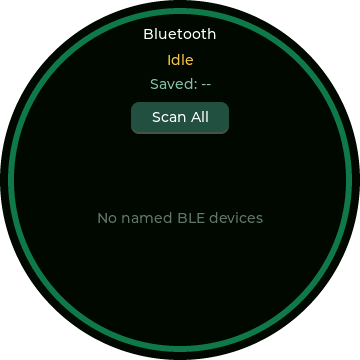
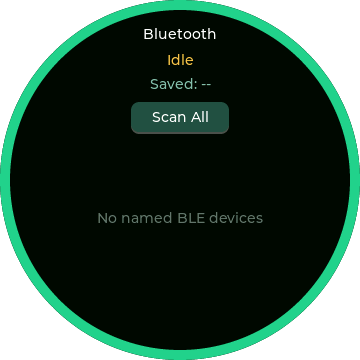
Match Bluetooth ring with GPS UART

Changed region(s): [[0.0, 0.0, 1.0, 1.0]]

diff --git a/components/esp32s3_obd/screens/ui_ScreenPageBluetooth.c b/components/esp32s3_obd/screens/ui_ScreenPageBluetooth.c
@@ -149,14 +149,7 @@ void ui_ScreenPageBluetooth_screen_init(void)
     lv_obj_set_style_bg_color(ui_ScreenPageBluetooth, lv_color_hex(0x050807), LV_PART_MAIN);
     lv_obj_set_style_bg_opa(ui_ScreenPageBluetooth, 255, LV_PART_MAIN);
 
-    lv_obj_t *ring = lv_obj_create(ui_ScreenPageBluetooth);
-    lv_obj_remove_style_all(ring);
-    lv_obj_set_size(ring, 344, 344);
-    lv_obj_center(ring);
-    lv_obj_set_style_radius(ring, LV_RADIUS_CIRCLE, LV_PART_MAIN);
-    lv_obj_set_style_border_width(ring, 6, LV_PART_MAIN);
-    lv_obj_set_style_border_color(ring, lv_color_hex(0x24D18F), LV_PART_MAIN);
-    lv_obj_set_style_border_opa(ring, 140, LV_PART_MAIN);
+    ui_create_outer_ring(ui_ScreenPageBluetooth, 360, 10, lv_color_hex(0x24D18F));
 
     make_label(ui_ScreenPageBluetooth, "Bluetooth", 0, 26, lv_color_hex(0xFFFFFF));
     s_status_label = make_label(ui_ScreenPageBluetooth, "Scanning", 0, 52, lv_color_hex(0xF2C14E));

diff --git a/README.md b/README.md
@@ -143,7 +143,7 @@ idf.py -p PORT flash monitor
 
 ## UI 截图
 
-更新时间：`2026-06-19 22:14:42 CST`
+更新时间：`2026-06-20 00:01:44 CST`
 
 本项目提供本地 LVGL 截图工具，直接复用固件里的 UI、字体、Logo 和 LVGL 绘制源码，按 `360 x 360` 生成每个界面的 PNG：
 
@@ -186,3 +186,4 @@ tools/screenshots/out/
 - Dashboard RPM 指针改为尾粗前尖的红色楔形多边形，由平滑后的 RPM cache 数据驱动。
 - 2026-06-19 22:06:34 CST：优化 OBD cache 响应速度，动态平滑 speed/RPM，并提高 speed/RPM 轮询优先级。
 - 2026-06-19 22:14:42 CST：新增本地 LVGL 全界面截图工具，输出 7 张 `360 x 360` PNG，用于对照烧录后显示。
+- 2026-06-20 00:01:44 CST：Bluetooth 页面外圈改为与 GPS UART 页面一致的绿色外圈，并刷新对应截图。